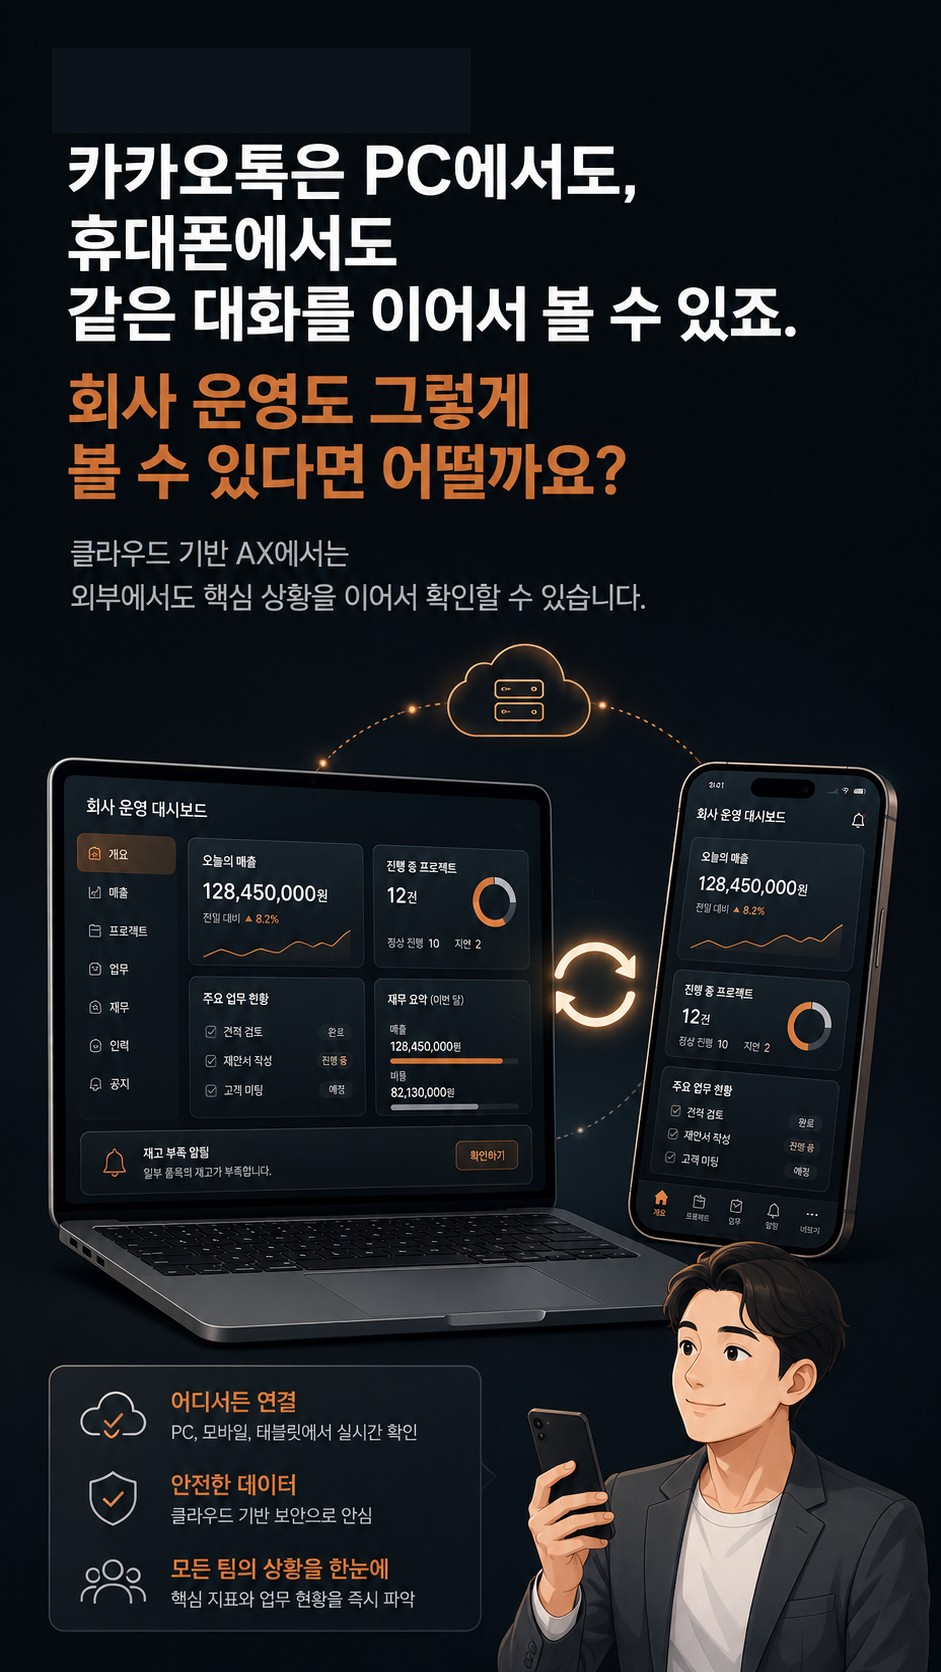
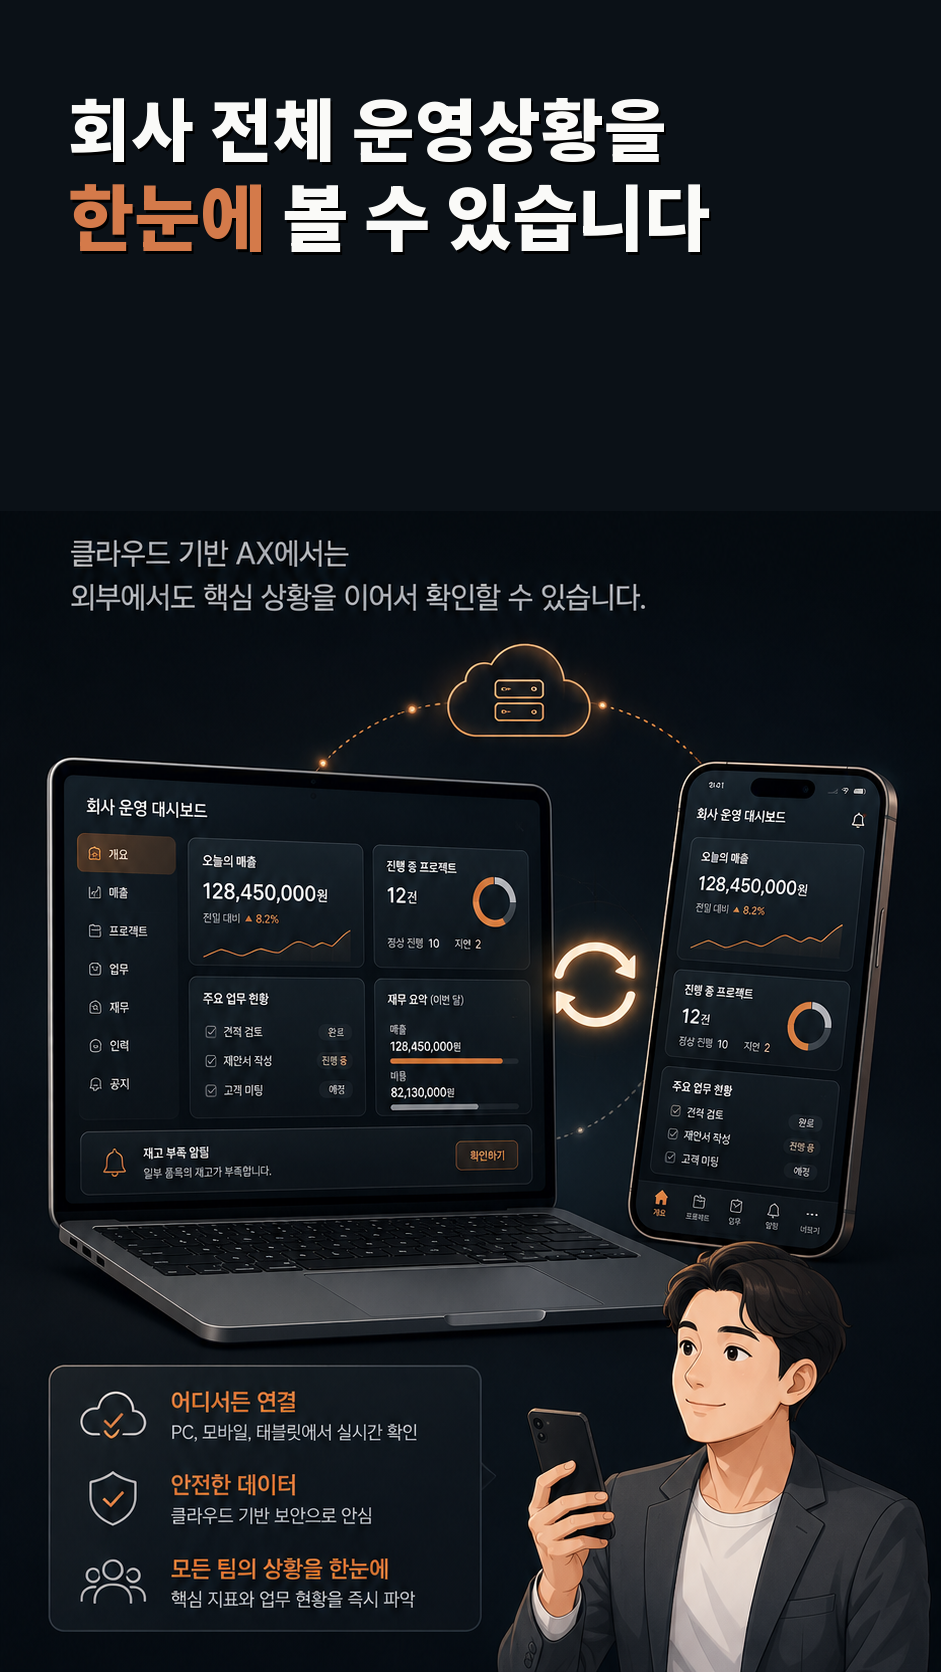
Refine business services image flow

Changed region(s): [[0.0616, 0.0622, 0.8321, 0.311]]

diff --git a/src/components/ax-showcase/axStoryHome.tsx b/src/components/ax-showcase/axStoryHome.tsx
@@ -9,6 +9,8 @@ type StoryImage = {
   alt: string
   bg: string
   gapClass?: string
+  outerClass?: string
+  innerClass?: string
 }
 
 type StorySectionProps = {
@@ -19,8 +21,8 @@ type StorySectionProps = {
 
 const STORY_ROOT = '/ax-home-story-clean'
 
-function storyImage(name: string, alt: string, bg = '#171B20', gapClass?: string): StoryImage {
-  return { src: `${STORY_ROOT}/${name}`, alt, bg, gapClass }
+function storyImage(name: string, alt: string, bg = '#171B20', gapClass?: string, outerClass?: string, innerClass?: string): StoryImage {
+  return { src: `${STORY_ROOT}/${name}`, alt, bg, gapClass, outerClass, innerClass }
 }
 
 function AxInfographicStack({ id, tone = 'dark', images }: StorySectionProps) {
@@ -32,8 +34,8 @@ function AxInfographicStack({ id, tone = 'dark', images }: StorySectionProps) {
     <section id={id} className={sectionClass}>
       {images.map((image) => (
         <div key={image.src} className={image.gapClass ?? 'pb-5 sm:pb-8'} style={{ background: image.bg }}>
-          <div className="mx-auto max-w-[989px] px-0 sm:px-6">
-            <div className="mx-auto max-w-[941px]">
+          <div className={image.outerClass ?? 'mx-auto max-w-[989px] px-0 sm:px-6'}>
+            <div className={image.innerClass ?? 'mx-auto max-w-[941px]'}>
               <img
                 src={image.src}
                 alt={image.alt}
@@ -152,7 +154,14 @@ const SECTION_13 = [
 ] as const
 
 const SECTION_14 = [
-  storyImage('section-14-industry-01.png', '우리 업종에도 AX나 플랫폼이 가능한지 업종별 화면을 확인하라는 안내', 'linear-gradient(90deg, #0F181E 0%, #0F181E 50%, #EFEFEE 50%, #EFEFEE 100%)'),
+  storyImage(
+    'section-14-industry-01.png',
+    '우리 업종에도 AX나 플랫폼이 가능한지 업종별 화면을 확인하라는 안내',
+    'linear-gradient(90deg, #0F181E 0%, #0F181E 50%, #EFEFEE 50%, #EFEFEE 100%)',
+    'pb-5 sm:pb-8',
+    'mx-auto max-w-[1240px] px-0 sm:px-4 lg:px-6',
+    'mx-auto max-w-[1120px]',
+  ),
 ] as const
 
 function AxIndustryPlatformLinks() {

diff --git a/src/pages/BusinessServicesPage.tsx b/src/pages/BusinessServicesPage.tsx
@@ -17,8 +17,6 @@ import {
   AxErpComparisonSection,
   AxIndustryQuestionSection,
   AxNotAlwaysNeededSection,
-  AxRealProjectIntroSection,
-  AxScreenIntroSection,
   AxTogetherScopeSection,
   AxWhyMiraeSection,
   AxWhyNowSection,
@@ -150,9 +148,6 @@ export default function BusinessServicesPage() {
       {/* 2. 첫 번째 문제제기 */}
       <AxWhyNowSection />
 
-      {/* 3. 바로 화면 */}
-      <AxScreenIntroSection />
-
       {/* 샘플 10개 — 기존 섹션 보존 */}
       <AxScreenShowcase />
 
@@ -179,9 +174,6 @@ export default function BusinessServicesPage() {
 
       {/* 샘플 10개 — 기존 섹션 보존 */}
       <AxPortfolioSection />
-
-      {/* 11. 실제 기업 적용 */}
-      <AxRealProjectIntroSection />
 
       {/* REAL · FIELD PROJECTS — 기존 섹션 보존 */}
       <AxRealProjectsDeep />
